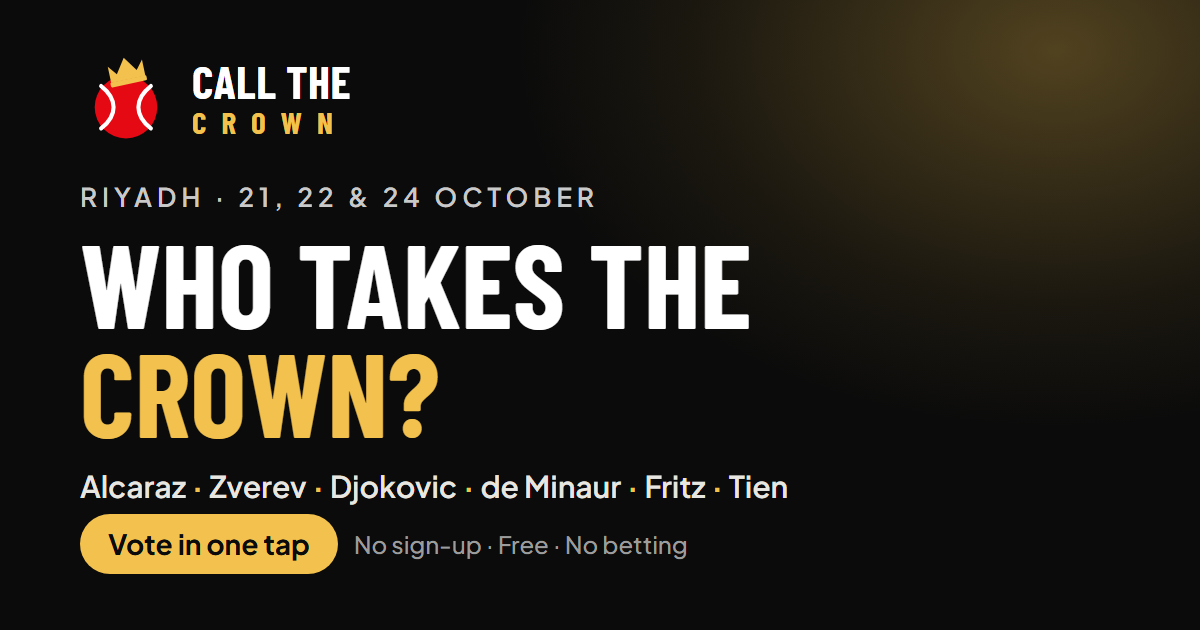
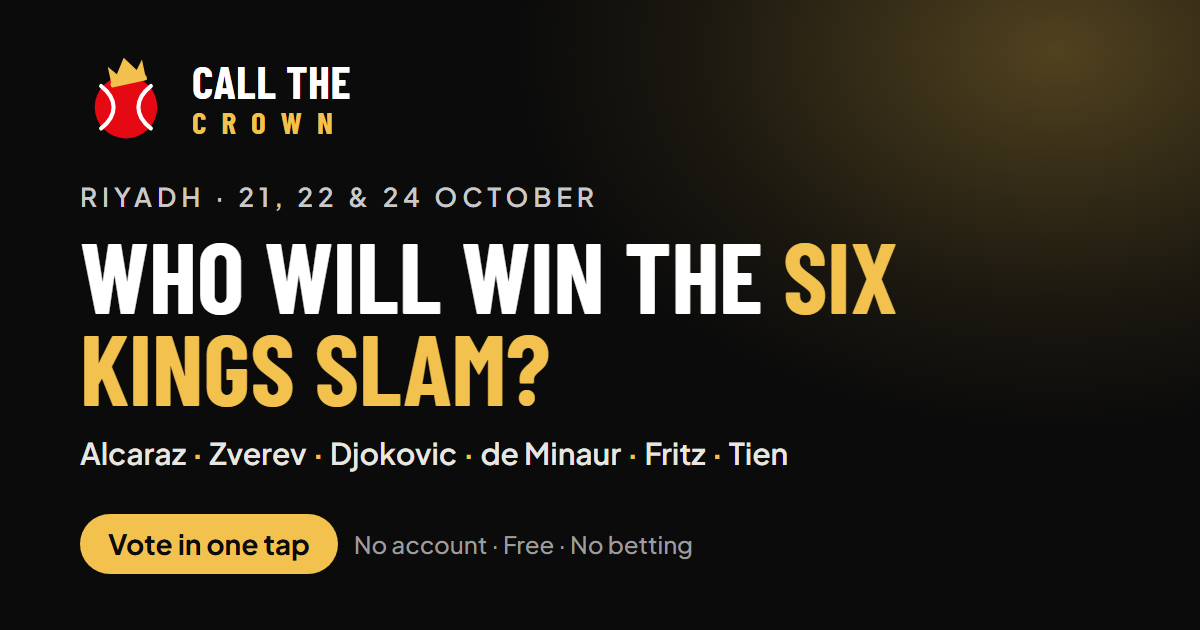
Plain wording: 'Who will win the Six Kings Slam?', guess-every-match questions, independent-vote line (EN + AR draft)

Changed region(s): [[0.0617, 0.3619, 0.74, 0.8143], [0.3083, 0.8444, 0.5858, 0.9048]]

diff --git a/src/i18n/ar.ts b/src/i18n/ar.ts
@@ -22,11 +22,11 @@ export const ar: Record<StringKey, string> = {
   something_wrong: "حدث خطأ ما",
 
   // landing
-  landing_title: "توقّع كل مباراة",
+  landing_title: "خمّن كل مباراة",
   landing_players: "اللاعبون الستة",
   first_lock_in: "تُغلق التوقعات التالية بعد",
   landing_sentence:
-    "توقّع الفائز ونتيجة المباريات الـ{n} كلها. كل توقع صحيح يمنحك نقاطاً. تصدّر الترتيب وانتزع التاج.",
+    "خمّن الفائز في كل مباراة من المباريات الـ{n} ونتيجتها. كل تخمين صحيح يمنحك نقاطاً. المشجع صاحب أكثر النقاط هو الفائز.",
   landing_league_line: "أنشئ دورياً لمجموعتك، وأثبتوا من يفهم في التنس.",
   example_title: "كيف يُحتسب التوقع",
   example_player: "لاعبك",
@@ -78,7 +78,7 @@ export const ar: Record<StringKey, string> = {
 
   // picks
   picks_title: "توقعاتي",
-  picks_intro: "اختر الفائز في كل مباراة والنتيجة. يمكنك تغيير توقعك حتى بداية المباراة.",
+  picks_intro: "في كل مباراة، خمّن الفائز والنتيجة. يمكنك تغيير تخمينك حتى تبدأ المباراة.",
   locks_in: "يُغلق بعد {time}",
   locked: "مغلق",
   live_now: "جارية الآن",
@@ -88,7 +88,7 @@ export const ar: Record<StringKey, string> = {
   vs_title: "{a} ضد {b}",
   vs_short: "ضد",
   to_be_decided: "يُحدَّد لاحقاً",
-  pick_winner: "1 · من سيفوز؟",
+  pick_winner: "1 · من سيفوز بهذه المباراة؟",
   set_n: "المجموعة {n}",
   plus_pts: "+{points} نقطة",
   upset_bonus: "مكافأة المفاجأة",
@@ -128,7 +128,7 @@ export const ar: Record<StringKey, string> = {
   world_rank: "المصنف {rank} عالمياً",
   set_score_aria: "المجموعة {n}: {score}",
   pts_if_right: "{points} نقطة إن صحّ",
-  pick_sets: "2 · كل مجموعة: من يفوز بها، ثم النتيجة",
+  pick_sets: "2 · خمّن النتيجة: في كل مجموعة، اضغط على الفائز بها ثم على النتيجة",
   set_decider: "الحاسمة",
   set_who_aria: "من يفوز بالمجموعة {n}",
   save_up_to: "احفظ · حتى {points} نقطة",
@@ -137,7 +137,7 @@ export const ar: Record<StringKey, string> = {
   draw_next: "التالي:",
   draw_live: "مباشر",
   draw_champion: "البطل",
-  draw_who: "من سيتوَّج؟",
+  draw_who: "من سيفوز باللقب؟",
   draw_mine: "توقعك",
   draw_called: "توقعك صحيح",
   draw_missed: "ليس هذه المرة",
@@ -145,7 +145,7 @@ export const ar: Record<StringKey, string> = {
   draw_pick_now: "توقّع الآن · {time}",
   draw_hint: "اضغط على مباراة لترى نتيجتها، أو لتسجّل توقعك ما دامت مفتوحة.",
   pager_swipe: "المباراة التالية",
-  court_hint: "اضغط على جهة من الملعب لتختار الفائز",
+  court_hint: "اضغط على اللاعب الذي تتوقع فوزه",
   pager_count: "المباراة {n} من {total}",
   picks_status: "{n} من {total} مختارة",
   see_draw: "شاهد جدول البطولة كاملاً",
@@ -159,12 +159,13 @@ export const ar: Record<StringKey, string> = {
 
   // first visit to Picks
   intro_title: "كيف تلعب",
-  intro_1: "اختر الفائز",
+  intro_1: "خمّن الفائز",
   intro_1_sub: "اضغط على مباراة، ثم على اللاعب الذي تتوقع فوزه.",
-  intro_2: "توقّع النتيجة",
-  intro_2_sub: "لكل مجموعة، اختر من يفوز بها ثم النتيجة. كل جزء صحيح يمنحك نقاطاً.",
-  intro_3: "غيّره حتى أول إرسال",
-  intro_3_sub: "يُغلق التوقع عند بداية المباراة. تصلك نقاطك بعد نهايتها.",
+  intro_2: "خمّن النتيجة",
+  intro_2_sub:
+    "المباراة من أفضل 3 مجموعات. في كل مجموعة، اضغط على الفائز بها ثم على النتيجة. كل جزء صحيح يمنحك نقاطاً.",
+  intro_3: "غيّر رأيك متى شئت قبل المباراة",
+  intro_3_sub: "يُقفل تخمينك عند بدء المباراة. تظهر نقاطك بعد نهايتها.",
   intro_ok: "فهمت",
 
   // after picking
@@ -311,7 +312,7 @@ export const ar: Record<StringKey, string> = {
   // how to play
   htp_title: "طريقة اللعب",
   htp_enter: "سجّل توقعاً",
-  htp_enter_1: "اختر الفائز في المباراة.",
+  htp_enter_1: "اختر من سيفوز بالمباراة.",
   htp_enter_2:
     "لكل مجموعة، اختر من يفوز بها ثم النتيجة ({scores}). إذا فاز اللاعب الآخر بالمجموعة 1 أو 2 تظهر مجموعة ثالثة، ويفوز بها الفائز بالمباراة.",
   htp_enter_3: "غيّره متى شئت حتى بداية المباراة.",
@@ -385,20 +386,22 @@ export const ar: Record<StringKey, string> = {
   err_league_name_length: "يتكون اسم الدوري من 1 إلى 40 حرفاً.",
   err_generic: "حدث خطأ ما. يرجى المحاولة مرة أخرى.",
 
-  vote_eyebrow: "الرياض · 21 و22 و24 أكتوبر",
-  vote_title: "من سينتزع التاج؟",
-  vote_sub: "نقرة واحدة. بلا تسجيل. تظهر النتائج بعد تصويت 50 مشجعاً.",
-  vote_you_backed: "اخترت {name}.",
-  vote_change: "اضغط على لاعب آخر لتغيير صوتك في أي وقت قبل المباراة الأولى.",
-  vote_results_after: "تظهر النتائج بعد أول 50 صوتاً.",
-  vote_results_title: "كيف صوّت المشجعون",
-  vote_share: "شارك التصويت",
+  vote_eyebrow: "بطولة الملوك الستة · الرياض · 21–24 أكتوبر",
+  vote_title: "من سيفوز ببطولة الملوك الستة؟",
+  vote_sub: "اضغط على لاعب للتصويت. مجاناً ودون حساب. سترى كيف صوّت الجميع بعد أن يصوّت 50 شخصاً.",
+  vote_you_backed: "صوتك: {name}.",
+  vote_change: "غيّرت رأيك؟ اضغط على لاعب آخر. يمكنك تغيير صوتك حتى تبدأ أول مباراة.",
+  vote_results_after: "سترى كيف صوّت الجميع بعد أن يصوّت 50 شخصاً.",
+  vote_results_title: "كيف صوّت الجميع",
+  vote_share: "شاركه مع صديق",
   vote_copied: "تم نسخ الرابط",
-  vote_share_text: "من سينتزع التاج في الرياض؟ اخترت {name}. صوّت بنقرة واحدة:",
-  vote_share_text_plain: "من سينتزع التاج في الرياض؟ صوّت بنقرة واحدة:",
-  vote_cta: "الآن توقّع كل مباراة وتفوّق على أصدقائك",
-  vote_closed: "أُغلق التصويت مع بداية المباراة الأولى.",
-  vote_too_many: "أصوات كثيرة من هذا الاتصال. حاول لاحقاً.",
+  vote_share_text: "من سيفوز ببطولة الملوك الستة في الرياض؟ صوّتُّ لـ{name}. صوّت بنقرة واحدة:",
+  vote_share_text_plain: "من سيفوز ببطولة الملوك الستة في الرياض؟ صوّت بنقرة واحدة:",
+  vote_cta: "العب اللعبة كاملة: خمّن كل مباراة",
+  vote_closed: "انتهى التصويت: بدأت أول مباراة.",
+  vote_too_many: "أصوات كثيرة من هذا الاتصال بالإنترنت. حاول مرة أخرى لاحقاً.",
   vote_failed: "لم يُسجَّل صوتك. حاول مرة أخرى.",
-  landing_vote_link: "تصويت سريع: من سينتزع التاج؟",
+  landing_vote_link: "تصويت سريع: من سيفوز ببطولة الملوك الستة؟",
+  vote_independent:
+    "تصويت مستقل من المشجعين. لا علاقة له ببطولة الملوك الستة أو برابطة محترفي التنس (ATP).",
 };

diff --git a/src/i18n/strings.ts b/src/i18n/strings.ts
@@ -23,11 +23,11 @@ export const en = {
   something_wrong: "Something went wrong",
 
   // landing
-  landing_title: "Call every match",
+  landing_title: "Guess every match",
   landing_players: "The six players",
   first_lock_in: "Next picks close in",
   landing_sentence:
-    "Predict the winner and the score of all {n} matches. Every call you get right scores points. Top the table and take the crown.",
+    "Guess who wins each of the {n} matches, and the score. Every right guess earns points. The fan with the most points wins.",
   landing_league_line: "Make a league for your group. Settle who knows tennis.",
   example_title: "How a pick scores",
   example_player: "Your player",
@@ -81,7 +81,7 @@ export const en = {
   // picks
   picks_title: "Your picks",
   picks_intro:
-    "Pick who wins each match and the score. You can change a pick until the match starts.",
+    "For each match, guess who wins and the score. You can change your guess until the match starts.",
   locks_in: "Locks in {time}",
   locked: "Locked",
   live_now: "In play",
@@ -91,7 +91,7 @@ export const en = {
   vs_title: "{a} v {b}",
   vs_short: "v",
   to_be_decided: "To be decided",
-  pick_winner: "1 · Who wins?",
+  pick_winner: "1 · Who will win this match?",
   set_n: "Set {n}",
   plus_pts: "+{points} pts",
   upset_bonus: "upset bonus",
@@ -125,14 +125,14 @@ export const en = {
   close: "Close",
   make_pick: "Make pick",
   edit_pick: "Edit pick",
-  card_who_wins: "Who wins?",
+  card_who_wins: "Who will win?",
   card_most: "Up to {points} pts on this match",
   pick_summary: "{name} in {n} sets",
   world_rank: "World no. {rank}",
   set_score_aria: "Set {n}: {score}",
   // entering the score (first-time-fan test, 2 Oct 2026)
   pts_if_right: "{points} pts if right",
-  pick_sets: "2 · Each set: who wins it, then the score",
+  pick_sets: "2 · Guess the score: for each set, tap who wins it, then the score",
   set_decider: "the decider",
   set_who_aria: "Who wins set {n}",
   save_up_to: "Save · up to {points} pts",
@@ -141,7 +141,7 @@ export const en = {
   draw_next: "Next up:",
   draw_live: "Live",
   draw_champion: "Champion",
-  draw_who: "Who will be crowned?",
+  draw_who: "Who will win the title?",
   draw_mine: "your pick",
   draw_called: "You called it",
   draw_missed: "Not this time",
@@ -149,7 +149,7 @@ export const en = {
   draw_pick_now: "Pick now · {time}",
   draw_hint: "Tap a match to see its result, or to make your pick while it's open.",
   pager_swipe: "Next match",
-  court_hint: "Tap a side of the court to pick the winner",
+  court_hint: "Tap the player you think will win",
   pager_count: "Match {n} of {total}",
   picks_status: "{n} of {total} picked",
   see_draw: "See the whole draw",
@@ -163,13 +163,13 @@ export const en = {
 
   // first visit to Picks (first-time-fan test, 2 Oct 2026)
   intro_title: "How it works",
-  intro_1: "Pick a winner",
-  intro_1_sub: "Tap a match, then the player you think wins.",
-  intro_2: "Call the score",
+  intro_1: "Guess the winner",
+  intro_1_sub: "Tap a match, then tap the player you think will win.",
+  intro_2: "Guess the score",
   intro_2_sub:
-    "For each set, tap who wins it, then the score. Each part you get right earns points.",
-  intro_3: "Change it until the first ball",
-  intro_3_sub: "A pick locks when its match starts. Your points arrive after the match.",
+    "A match is the best of 3 sets. For each set, tap who wins it, then the score. Every part you get right earns points.",
+  intro_3: "Change your mind any time before the match",
+  intro_3_sub: "Your guess locks when the match starts. Your points appear after the match ends.",
   intro_ok: "Got it",
 
   // after picking (first-time-fan test, 2 Oct 2026)
@@ -324,7 +324,7 @@ export const en = {
   // how to play
   htp_title: "How to play",
   htp_enter: "Make a pick",
-  htp_enter_1: "Pick who wins the match.",
+  htp_enter_1: "Pick who will win the match.",
   htp_enter_2:
     "For each set, tap who wins it, then the score ({scores}). If the other player takes set 1 or 2, a third set appears: the winner of the match takes it.",
   htp_enter_3: "Change it as often as you like until the match starts.",
@@ -400,22 +400,25 @@ export const en = {
   err_generic: "Something went wrong. Please try again.",
 
   // the quick vote (/vote, 15 Oct 2026)
-  vote_eyebrow: "Riyadh · 21, 22 & 24 October",
-  vote_title: "Who takes the crown?",
-  vote_sub: "One tap. No sign-up. Results show once 50 fans have voted.",
-  vote_you_backed: "You backed {name}.",
-  vote_change: "Tap another player to change your vote, any time before the first match.",
-  vote_results_after: "Results appear after the first 50 votes.",
-  vote_results_title: "How fans voted",
-  vote_share: "Share the vote",
+  vote_eyebrow: "Six Kings Slam · Riyadh · 21–24 October",
+  vote_title: "Who will win the Six Kings Slam?",
+  vote_sub:
+    "Tap a player to vote. It's free and you don't need an account. You'll see how everyone voted once 50 people have voted.",
+  vote_you_backed: "Your vote: {name}.",
+  vote_change:
+    "Changed your mind? Tap another player. You can change your vote until the first match starts.",
+  vote_results_after: "You'll see how everyone voted once 50 people have voted.",
+  vote_results_title: "How everyone voted",
+  vote_share: "Share with a friend",
   vote_copied: "Link copied",
-  vote_share_text: "Who takes the crown in Riyadh? I backed {name}. Vote in one tap:",
-  vote_share_text_plain: "Who takes the crown in Riyadh? Vote in one tap:",
-  vote_cta: "Now call every match and beat your friends",
-  vote_closed: "Voting closed when the first match started.",
-  vote_too_many: "Too many votes from this connection. Try again later.",
+  vote_share_text: "Who will win the Six Kings Slam in Riyadh? I voted {name}. Vote in one tap:",
+  vote_share_text_plain: "Who will win the Six Kings Slam in Riyadh? Vote in one tap:",
+  vote_cta: "Play the full game: guess every match",
+  vote_closed: "Voting is closed: the first match has started.",
+  vote_too_many: "Too many votes from this internet connection. Please try again later.",
   vote_failed: "Your vote didn't go through. Try again.",
-  landing_vote_link: "Quick vote: who takes the crown?",
+  landing_vote_link: "Quick vote: who will win the Six Kings Slam?",
+  vote_independent: "An independent fan vote. Not connected to the Six Kings Slam or the ATP.",
 };
 
 export type StringKey = keyof typeof en;

diff --git a/index.html b/index.html
@@ -7,12 +7,12 @@
     <link rel="icon" type="image/svg+xml" href="/favicon.svg" />
     <link rel="apple-touch-icon" href="/apple-touch-icon.png" />
     <title>Call the Crown</title>
-    <meta name="description" content="Who takes the crown in Riyadh? Vote in one tap, then call every match and beat your friends. Free, no betting." />
+    <meta name="description" content="Who will win the Six Kings Slam in Riyadh? Vote in one tap, no account needed. Then guess every match and beat your friends. Free, no betting." />
     <!-- Link previews (WhatsApp, X, iMessage). Absolute address: crawlers do not resolve relative images. -->
     <meta property="og:type" content="website" />
     <meta property="og:site_name" content="Call the Crown" />
-    <meta property="og:title" content="Who takes the crown? Vote in one tap" />
-    <meta property="og:description" content="Six players, three nights in Riyadh, 21, 22 and 24 October. Pick your champion, then call every match and beat your friends. Free, no betting." />
+    <meta property="og:title" content="Who will win the Six Kings Slam? Vote in one tap" />
+    <meta property="og:description" content="Six players, three nights in Riyadh, 21, 22 and 24 October. Vote for the winner, then guess every match and beat your friends. Free, no betting." />
     <meta property="og:url" content="https://crown.grandslamgm.com/vote" />
     <meta property="og:image" content="https://crown.grandslamgm.com/og.png" />
     <meta property="og:image:width" content="1200" />

diff --git a/src/routes/vote.tsx b/src/routes/vote.tsx
@@ -1,4 +1,5 @@
-// The quick vote (Tino, 15 Oct 2026: get Call the Crown out there today). "Who takes the crown?" One tap
+// The quick vote (Tino, 15 Oct 2026: get Call the Crown out there today). "Who will win the Six Kings
+// Slam?" (plain wording, 16 Oct; a line under it says the vote is independent of the event). One tap
 // on one of the six players, no sign-up: a random id kept in this browser stands for the device
 // (cast_quick_vote, 0052). After the tap: who you backed, how fans voted (percentages, only from 50
 // votes), a Share button, and the way into the full game. Players are fixed here, as in 0052: the field
@@ -211,6 +212,8 @@ function Vote() {
           </div>
         </section>
       )}
+
+      <p className="mt-6 text-2xs text-ink-3">{t("vote_independent")}</p>
     </AppShell>
   );
 }
